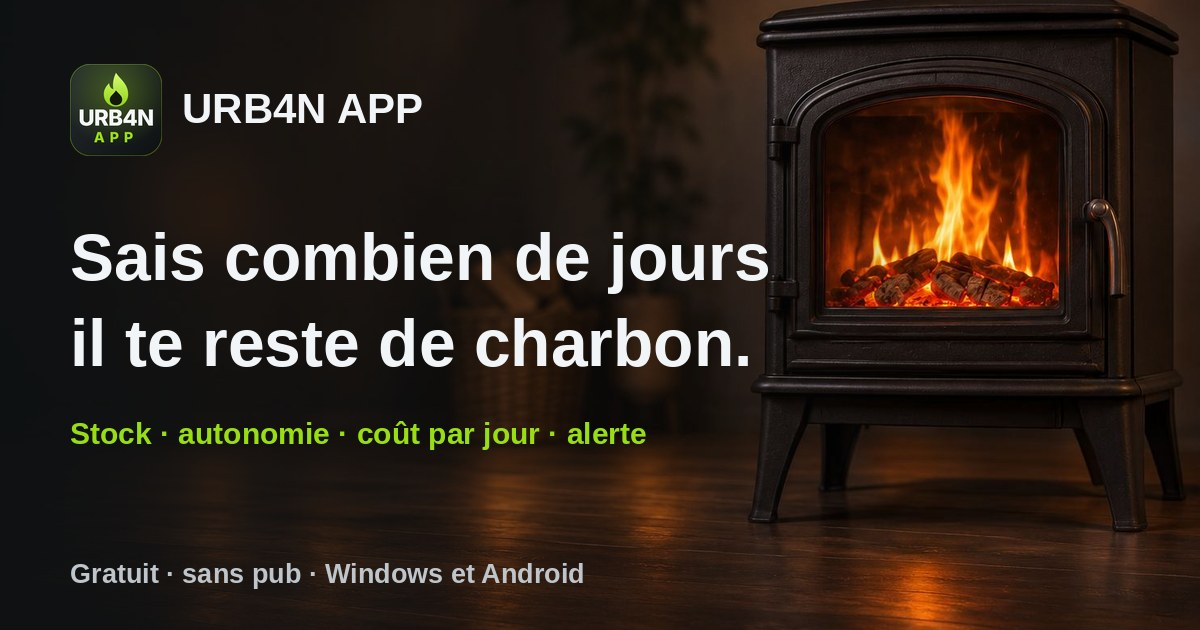
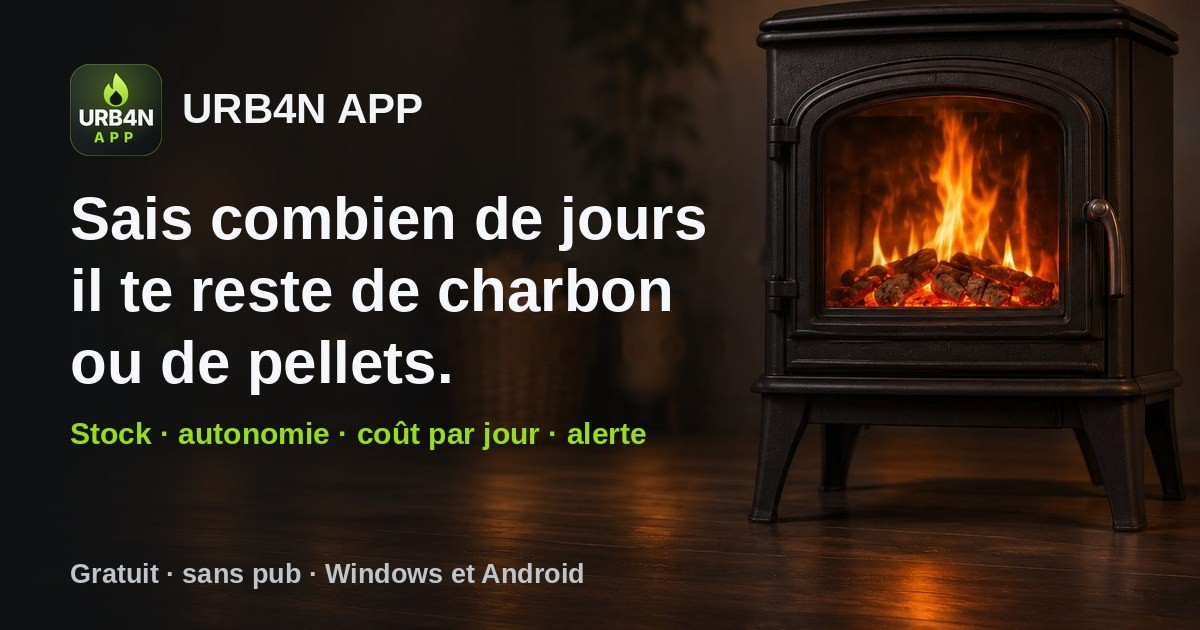
Image et titre de partage : charbon ou pellets
Claude-Session: https://claude.ai/code/session_017pRw9GXwh5B9mUks8ggPbM

Changed region(s): [[0.0617, 0.3016, 0.6475, 0.6333]]

diff --git a/index.html b/index.html
@@ -9,13 +9,13 @@
 <meta property="og:type" content="website">
 <meta property="og:site_name" content="URB4N APP">
 <meta property="og:locale" content="fr_BE">
-<meta property="og:title" content="URB4N APP — Sais combien de jours il te reste de charbon">
+<meta property="og:title" content="URB4N APP — Sais combien de jours il te reste de charbon ou de pellets">
 <meta property="og:description" content="Suivi de ton poêle à charbon ou à pellets : stock, autonomie, coût par jour et alerte avant la fin de la charge. Gratuit, sans pub, sur Windows et Android.">
 <meta property="og:url" content="https://urb4n-app.github.io/">
-<meta property="og:image" content="https://urb4n-app.github.io/og.jpg">
+<meta property="og:image" content="https://urb4n-app.github.io/og.jpg?v=2">
 <meta property="og:image:width" content="1200">
 <meta property="og:image:height" content="630">
-<meta property="og:image:alt" content="URB4N APP : un poêle allumé et le texte « Sais combien de jours il te reste de charbon »">
+<meta property="og:image:alt" content="URB4N APP : un poêle allumé et le texte « Sais combien de jours il te reste de charbon ou de pellets »">
 <meta name="twitter:card" content="summary_large_image">
 <meta name="theme-color" content="#111417">
 <link rel="stylesheet" href="style.css">
